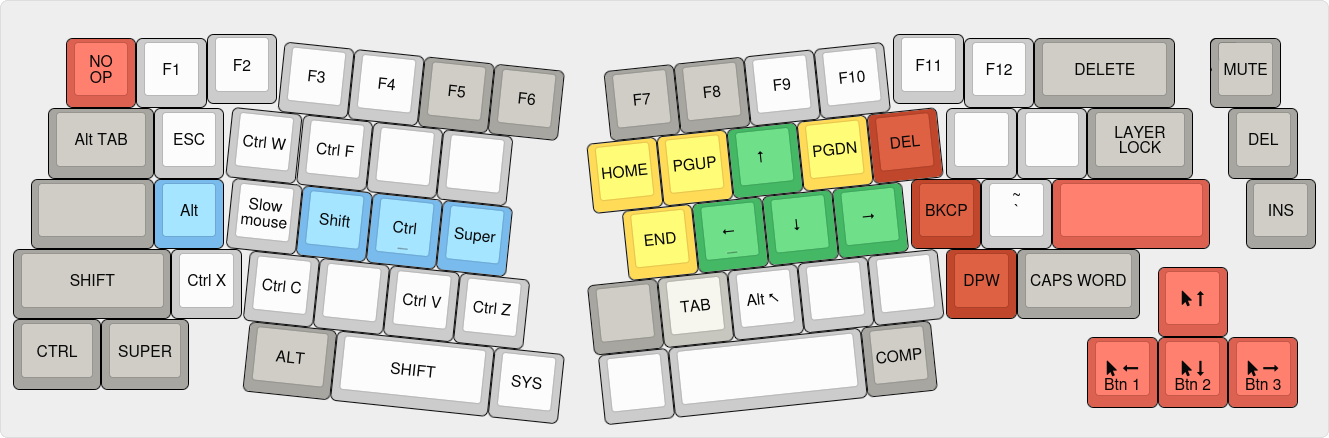
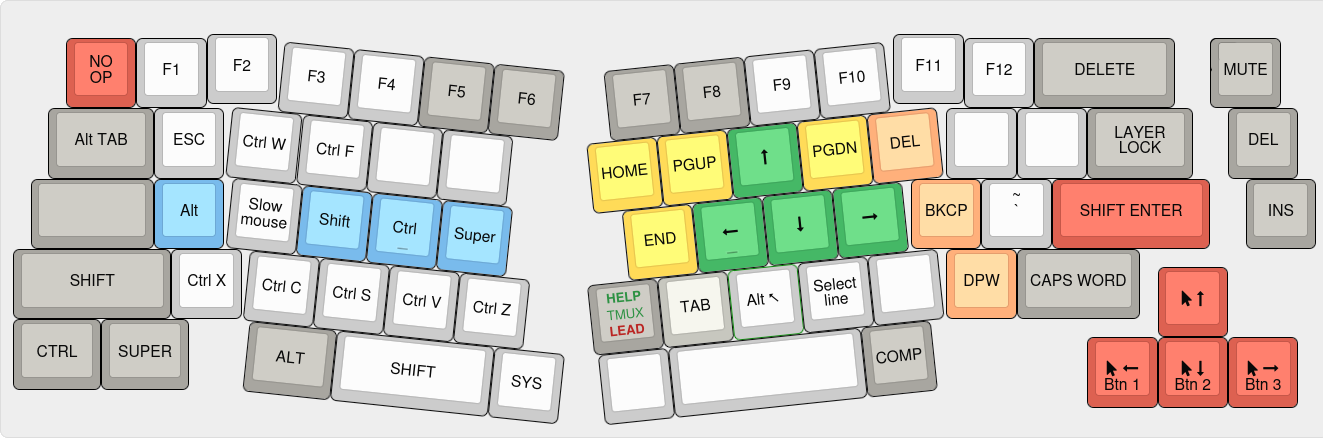
Leader key + docs

diff --git a/qmk_keyboards/userspace/leader_key.c b/qmk_keyboards/userspace/leader_key.c
@@ -1,10 +1,10 @@
 #include QMK_KEYBOARD_H
 #include "custom_keys.h"
 #include "tap_dance.h"
+#include "private.h"
 
-void leader_start_user(void) {
-    print("leader_start_user\n");
-}
+//void leader_start_user(void) {
+//}
 
 
 void insert_tags( char* opening, char* closing ) {
@@ -23,41 +23,117 @@ void wrap_selection_string( char* opening, char* closing ) {
 }
 
 void leader_end_user(void) {
-    print("leader_end_user\n");
     if (leader_sequence_one_key( TD_TMUX )) {
         // cancel leader sequence
 
-    } else if (leader_sequence_two_keys(KC_H, KC_B)) {
-        // <B>$</B>   - $ marks the position of the cursor
+    } else if (leader_sequence_one_key( KC_L )) {
+        // select entire line, cursor at begining of next line
+        tap_code( KC_HOME );
+        tap_code( KC_HOME );
+        tap_code16( S(KC_DOWN) );
+
+    // ❚ marks the position of the cursor
+    } else if (leader_sequence_two_keys(KC_LSFT, KC_B)) {
+        // <b>❚</b>
         insert_tags( "<b>", "</b>" );
 
-    } else if (leader_sequence_two_keys(KC_3, KC_I)) {
-        // #include $
+    } else if (leader_sequence_two_keys(KC_LSFT, KC_L)) {
+        // [❚]()
+        insert_tags( "[", "]()" );
+
+    } else if (leader_sequence_two_keys(KC_LSFT, KC_I)) {
+        // ![❚]()
+        insert_tags( "![", "]()" );
+
+    } else if (leader_sequence_two_keys(KC_LSFT, KC_F)) {
+        // [^❚]
+        insert_tags( "[^", "]" );
+
+    } else if (leader_sequence_one_key(KC_ESC)) {
+        // `❚`
+        insert_tags( "`", "`" );
+
+    } else if (leader_sequence_two_keys(KC_ESC, KC_ESC)) {
+        // ```
+        // ❚
+        // ```
+        insert_tags( "```", "```" );
+        tap_code16( S(KC_ENT) );
+        tap_code16( S(KC_ENT) );
+        tap_code( KC_UP );
+
+    } else if (leader_sequence_one_key(KC_I)) {
+        // #include ❚
         send_string( "#include " );
 
-    } else if (leader_sequence_two_keys(KC_W, KC_QUOT)) {
+    } else if (leader_sequence_one_key(KC_D)) {
+        // #define ❚
+        send_string( "#define " );
+
+    } else if (leader_sequence_two_keys(KC_SPC, KC_QUOT)) {
+        // 'selection'❚
         wrap_selection_string( "'", "'" );
 
-    } else if (leader_sequence_three_keys(KC_W, KC_QUOT, KC_QUOT)) {
+    } else if (leader_sequence_three_keys(KC_SPC, KC_QUOT, KC_QUOT)) {
+        // "selection"❚
         wrap_selection_string( "\"", "\"" );
 
-    } else if (leader_sequence_two_keys(KC_W, KC_LBRC)) {
+    } else if (leader_sequence_two_keys(KC_SPC, KC_LBRC)) {
+        // [selection]❚
         wrap_selection_string( "[", "]" );
 
-    } else if (leader_sequence_two_keys(KC_W, KC_B)) {
-        wrap_selection_string( "<b>", "</b>" );
+    } else if (leader_sequence_three_keys(KC_SPC, KC_LBRC, KC_LBRC)) {
+        // {selection}❚
+        wrap_selection_string( "{", "}" );
 
-    } else if (leader_sequence_three_keys(KC_W, KC_LBRC, KC_LBRC)) {
-        wrap_selection_string( "SS_LSFT(X_LBRC)", "SS_LSFT(X_RBRC)" );
+    } else if (leader_sequence_two_keys(KC_SPC, KC_RBRC)) {
+        // [[selection]]❚
+        wrap_selection_string( "[[", "]]" );
 
-    } else if (leader_sequence_two_keys(KC_W, KC_9)) {
+    } else if (leader_sequence_three_keys(KC_SPC, KC_RBRC, KC_RBRC)) {
+        // {{selection}}❚
+        wrap_selection_string( "{{", "}}" );
+
+    } else if (leader_sequence_two_keys(KC_SPC, KC_9)) {
+        // (selection)❚
         wrap_selection_string( "(", ")" );
 
-    } else if (leader_sequence_three_keys(KC_W, KC_9, KC_9)) {
-        wrap_selection_string( "SS_LSFT(X_9)", "SS_LSFT(X_9)" );
+    } else if (leader_sequence_two_keys(KC_SPC, KC_0)) {
+        // ((selection))❚
+        wrap_selection_string( "((", "))" );
 
-    } else if (leader_sequence_one_key(KC_T)) {
-        send_string("Hello xxXXxx !" );
+    } else if (leader_sequence_two_keys(KC_SPC, KC_8)) {
+        // *selection*❚
+        wrap_selection_string( "*", "*" );
+
+    } else if (leader_sequence_two_keys(KC_SPC, KC_B)) {
+        // <b>selection</b>❚
+        wrap_selection_string( "<b>", "</b>" );
+
+    } else if (leader_sequence_two_keys(KC_X, KC_C)) {
+        // company name
+        send_string( PRIV_COMPANY_NAME );
+
+    } else if (leader_sequence_two_keys(KC_C, KC_X)) {
+        // company email
+        send_string( PRIV_COMPANY_EMAIL );
+
+    } else if (leader_sequence_two_keys(KC_X, KC_D)) {
+        // company domain
+        send_string( PRIV_COMPANY_DOMAIN );
+
+    } else if (leader_sequence_two_keys(KC_Y, KC_Y)) {
+        // email
+        send_string( PRIV_EMAIL );
+
+    } else if (leader_sequence_two_keys(KC_D, KC_D)) {
+        // domain name 1
+        send_string( PRIV_DOMAIN_1 );
+
+    } else if (leader_sequence_two_keys(KC_M, KC_M)) {
+        // domain name 2
+        send_string( PRIV_DOMAIN_2 );
+
     }
 }
 

diff --git a/qmk_keyboards/userspace/keymap_alice69.h b/qmk_keyboards/userspace/keymap_alice69.h
@@ -30,7 +30,7 @@ const uint16_t PROGMEM keymaps[][MATRIX_ROWS][MATRIX_COLS] = {
 
     [COLEMAK] = LAYOUT_69_auto(     // the host is set to QWERTY
         KC_ESC,  KC_1,     KC_2,     KC_3,    KC_4,    KC_5,    KC_6,     KC_7,    KC_8,    KC_9,    KC_0,     KC_MINS,  KC_EQL,   KC_BSPC,          CC_EMTG,
-        KC_TAB,  KC_Q,     KC_W,     KC_F,    KC_P,    KC_B,    KC_J,     KC_L,    KC_U,    KC_Y,    KC_SCLN,  KC_LBRC,  KC_RBRC,  KC_BSLS,          KC_PGUP,
+        KC_TAB,  KC_Q,     KC_W,     KC_F,    KC_P,    KC_B,    KC_J,     KC_L,    KC_U,    KC_Y,    KC_SCLN,  KC_LBRC,  KC_RBRC,  K_LEAD,           KC_PGUP,
         L_EXTEND,KC_A,     KC_R,     KC_S,    KC_T,    KC_G,              KC_M,    KC_N,    KC_E,    KC_I,     KC_O,     KC_QUOT,  KC_ENT,           KC_PGDN,
         OSM_LSFT,          KC_X,     KC_C,    KC_D,    KC_V,    KC_Z,     K_TMUX,  KC_K,    KC_H,    KC_COMM,  KC_DOT,   KC_SLSH,  OSM_RSFT,KC_UP,
         OSM_LCTL,KC_LWIN,  KC_LALT,           KC_LSFT,          L_NAV,    L_EXTEND,         KC_SPC,            CMP_RALT,           KC_LEFT, KC_DOWN, KC_RGHT),
@@ -39,15 +39,15 @@ const uint16_t PROGMEM keymaps[][MATRIX_ROWS][MATRIX_COLS] = {
         KC_NO,   KC_F1,    KC_F2,    KC_F3,   KC_F4,   KC_F5,   KC_F6,    KC_F7,   KC_F8,   KC_F9,   KC_F10,   KC_F11,   KC_F12,   KC_DEL,           KC_MUTE,
         A(KC_TAB),KC_ESC,  C(KC_W),  C(KC_F), XXXXXXX, XXXXXXX, KC_HOME,  KC_PGUP, KC_UP,   KC_PGDN, KC_DEL,   XXXXXXX,  XXXXXXX,  CC_ELOCK,         KC_DEL,
         XXXXXXX, OSM_LALT, KC_ACL0,  OSM_LSFT,OSM_LCTL,KC_LWIN,           KC_END,  KC_LEFT, KC_DOWN, KC_RGHT,  KC_BSPC,  KC_GRV,   S(KC_ENT),        KC_INS,
-        _______,           C(KC_X),  C(KC_C), XXXXXXX, C(KC_V), C(KC_Z),  _______, KC_TAB,  KS_AHOM, XXXXXXX,  XXXXXXX,  KS_DPW,   CW_TOGG, KC_MS_U,
+        _______,           C(KC_X),  C(KC_C), C(KC_S), C(KC_V), C(KC_Z),  _______, KC_TAB,  KS_AHOM, CC_LINE,  XXXXXXX,  KS_DPW,   CW_TOGG, KC_MS_U,
         _______, _______,  _______,           _______,          _______,  _______,          _______,           _______,            KC_MS_L, KC_MS_D, KC_MS_R),
 
     [NAV] = LAYOUT_69_auto(
-        KC_NO,   A(KC_1),  A(KC_2),  A(KC_3), A(KC_4), A(KC_5), A(KC_6),  A(KC_7), A(KC_8), A(KC_9), A(KC_0),  DM_PLY1,  DM_PLY1,  _______,          _______,
-        _______, _______,  CG(KC_W), CG(KC_F),CA(KC_L),CG(KC_B),CG(KC_O), _______, _______, KC_MS_U, KC_MS_D,  KC_MS_L,  KC_MS_R,  KC_MPLY,          KC_HOME,
-        TG(NUMPAD),CG(KC_A),CG(KC_Y),CG(KC_S),CG(KC_T),_______,           _______, G(KC_F1),G(KC_F2),G(KC_F3), G(KC_F4), _______,  _______,          KC_END,
-        _______,           _______,  CS(KC_C),_______, CS(KC_V),CG(KC_Z), _______, CC_SRCP, CC_SRCN, CA(KC_PGUP),CA(KC_PGDN), _______,  KC_CAPS, _______,
-        _______, _______,  _______,           _______,          _______,  _______,          _______,           _______,            _______, _______, _______),
+        KC_NO,   A(KC_1),  A(KC_2),  A(KC_3), A(KC_4), A(KC_5), A(KC_6),  XXXXXXX, KC_MS_U, XXXXXXX,  XXXXXXX,  DM_PLY1,  DM_PLY2,  _______,          _______,
+        XXXXXXX, CG(KC_O), CG(KC_W), CG(KC_F),CA(KC_L),CG(KC_B),XXXXXXX,  KC_MS_L, KC_MS_D, KC_MS_R,  XXXXXXX,  XXXXXXX,  KC_MPLY,  _______,          KC_HOME,
+        TG(NUMPAD),CG(KC_A),CG(KC_Y),CG(KC_S),CG(KC_T),XXXXXXX,           XXXXXXX, G(KC_F1),G(KC_F2), G(KC_F3), G(KC_F4), XXXXXXX,  _______,          KC_END,
+        _______,           XXXXXXX,  CS(KC_C),XXXXXXX, CS(KC_V),CG(KC_Z), _______, CC_SRCP, CC_SRCN,  K_TAB_L,  K_TAB_R,  XXXXXXX,  KC_CAPS, A(KC_UP),
+        _______, _______,  _______,           _______,          _______,  _______,          A(KC_TAB),          _______,          A(KC_LEFT), A(KC_DOWN), A(KC_RIGHT)),
         // App shortcuts with CG(x): W:web F:files L:codelite Y:skype S:slack A:signal T:term B:buildterm O:transmission
         // Shortcuts managed by run-or-raise Gnome extension.
 

diff --git a/qmk_keyboards/userspace/y-muller.c b/qmk_keyboards/userspace/y-muller.c
@@ -70,6 +70,15 @@ bool process_record_user(uint16_t keycode, keyrecord_t *record) {
             return false;
 #endif
 
+        case CC_LINE:
+            // select whole line
+            if (record->event.pressed) {
+                tap_code( KC_HOME );
+                tap_code( KC_HOME );
+                tap_code16( S(KC_DOWN) );
+            }
+            return false;
+
         case CC_SRCN:
             // navigate through search results - next
             // with F3 and Shift-F3 or with F8 and Ctrl-F8 if Shift is pressed
@@ -127,7 +136,7 @@ bool process_record_user(uint16_t keycode, keyrecord_t *record) {
                     rgb_matrix_sethsv_noeeprom(HSV_OFF);
                 }
             }
-            return true;
+            return false;
 
         case CC_RGBRT:
             // set RGB to defaults
@@ -135,7 +144,7 @@ bool process_record_user(uint16_t keycode, keyrecord_t *record) {
                 rgb_matrix_mode_noeeprom(RGB_MATRIX_RAINBOW_MOVING_CHEVRON);
                 rgb_matrix_sethsv_noeeprom(255,255,255);
             }
-            return true;
+            return false;
 
         case CC_DISP: // handle the display switch key on Thinhpad (F7)
             if (record->event.pressed) {

diff --git a/qmk_keyboards/userspace/custom_keys.h b/qmk_keyboards/userspace/custom_keys.h
@@ -25,6 +25,10 @@
 #define OSM_RCTL OSM(MOD_RCTL)
 #define OSM_LALT OSM(MOD_LALT)
 
+// Tabs left and right
+#define K_TAB_L CA(KC_PGUP)
+#define K_TAB_R CA(KC_PGDN)
+
 // Delete Previous Word (Ctrl+Backspace)
 #define KS_DPW LCTL(KC_BSPC)
 // Alt+Home (real Home for CodeLite: start of line)
@@ -32,6 +36,9 @@
 
 // TMUX key is a tap dance with HELP and LEADER
 #define K_TMUX TD(TD_TMUX)
+
+// LEADER is a tap dance with Backslash
+#define K_LEAD TD(TD_LEAD)
 
 // Boot on double tap
 #define K_BOOT TD(TD_BOOT)
@@ -45,6 +52,7 @@ enum my_keycodes {
   CC_EMTG,              // Encode mode toggle
   CC_ECCW,              // Encoder counter clock wise
   CC_ECW,               // Encoder clock wise
+  CC_LINE,              // Select whole line
   CC_SRCN,              // Search: next result
   CC_SRCP,              // Search: previous result
   CC_RGBTG,             // RGB mostly off, used for indicators, toggle

diff --git a/qmk_keyboards/userspace/tap_dance.c b/qmk_keyboards/userspace/tap_dance.c
@@ -60,16 +60,23 @@ td_state_t cur_dance(tap_dance_state_t *state) {
 
 
 void td_leader_each(tap_dance_state_t *state, void *user_data) {
-    if (state->count > 1) {
-        printf("%d\n", state->count);
+    if (state->count == 1) {
+        uint8_t mod = get_mods();
+        uint8_t osm = get_oneshot_mods() ;
+        if (mod & MOD_MASK_SHIFT || osm & MOD_MASK_SHIFT ) {
+            tap_code16( S(KC_BSLS) );
+            reset_tap_dance(state);
+        } else if (mod & MOD_BIT(KC_RALT) || osm & MOD_BIT(KC_RALT) ) {
+            tap_code( KC_BSLS );
+            reset_tap_dance(state);
+        }
+    } else if (state->count > 1) {
         tap_code( KC_BSLS );
     }
 }
 
 void td_leader_finished(tap_dance_state_t *state, void *user_data) {
-    print("finished\n");
     if (state->count == 1) {
-        print("leader\n");
         leader_start();
     }
 }

diff --git a/qmk_keyboards/keychron_k11pro/config.h b/qmk_keyboards/keychron_k11pro/config.h
@@ -13,7 +13,7 @@
 #define ONESHOT_TIMEOUT 2000
 
 // Tap dance config
-#define TAPPING_TERM 175
+#define TAPPING_TERM 200
 #define TAPPING_TERM_PER_KEY
 
 // Leader key config

diff --git a/qmk_keyboards/README.md b/qmk_keyboards/README.md
@@ -15,7 +15,9 @@ Tap the `Compose` (COMP) key once for the normal Linux compose behaviour or hold
 
 The alternate characters are configured in [XKB](../xkb/README.md).
 
-Tapping the Tmux key sends `Ctrl-A` and holding it sends `Ctrl-A` before each key press until released. A double tap on the same key triggers the start of a [leader key](LeaderKey.md) sequence.
+Tapping the Tmux key sends `Ctrl-A` and holding it sends `Ctrl-A` before each key press until released.
+
+There are two ways to start a [leader key](LeaderKey.md) sequence. A double tap on the Tmux key or a tap on the backslash. The backslash is still available on the same key with a double tap or with `AltGr`. This is still a bit experimental.
 
 #### Extend layer
 Accessible with the EXTEND or EXT keys. Press LAYER LOCK to lock to this layer and again to exit it.
@@ -27,11 +29,13 @@ Encoder controls the volume.
 The arrow keys move the mouse cursor, or act as the scrollwheel with `Shift`. The mouse buttons are activated with `Alt`. 
 
 #### Nav layer
-Accessive with the NAV key. 
+Accessible with the NAV key. 
 
 ![nav](../.img/layout_alice69_nav.png)
 
 Encoder controls the screen brightness and external monitor brightness with Shift.
+
+`Space` alternates between the two previous windows.
 
 Find next and previous work in several editors (F3 and Shift-F3). With Shift, switches to "Find in files" mode (F8 and Control-F8).   
 Tab switching is with Control-Alt-PgUp/Dn and works is several editors and can be configured in gnome-terminal and others.  

diff --git a/qmk_keyboards/LeaderKey.md b/qmk_keyboards/LeaderKey.md
@@ -1,5 +1,42 @@
 ### Leader key sequences
 
-< : empty HTML tag with cursor in the middle
-> : empty closing HTML tag with cursor in the middle
+| `Leader` +        | Result
+|-------------------|-------------------------
+| `l`               | Select whole line
+| `i`               | #include ❚
+| `d`               | #define ❚
+
+Markdown and HTML:
+| `Leader` +        | Result
+|-------------------|-------------------------
+| `Esc`             | \`❚\`
+| `Esc` + `Esc`     | \`\`\` <br> ❚ <br> \`\`\`
+| `L Shift` + `l`   | \[❚\]\(\)
+| `L Shift` + `i`   | \!\[❚\]()
+| `L Shift` + `f`   | \[^❚\]
+| `L Shift` + `b`   | \<b>❚\<\/b>
+
+On selected text:
+| `Leader` +        | Result
+|-------------------|-------------------------
+| `Spc` + `'`       | 'selection'❚
+| `Spc` + `'` + `'` | "selection"❚
+| `Spc` + `[`       | [selection]❚
+| `Spc` + `[` + `[` | {selection}❚
+| `Spc` + `]`       | [[selection]]❚
+| `Spc` + `]` + `]` | {{selection}}❚
+| `Spc` + `(`       | (selection)❚
+| `Spc` + `)`       | ((selection))❚
+| `Spc` + `8 *`     | \*selection\*❚
+
+Text expansion:
+| `Leader` +        | Result
+|-------------------|-------------------------
+| `x` + `c`         | _Company name_
+| `c` + `x`         | _Company email_
+| `x` + `d`         | _Company domain_
+| `y` + `y`         | _Email_
+| `d` + `d`         | _Domain 1_
+| `m` + `m`         | _Domain 2_
+
 
